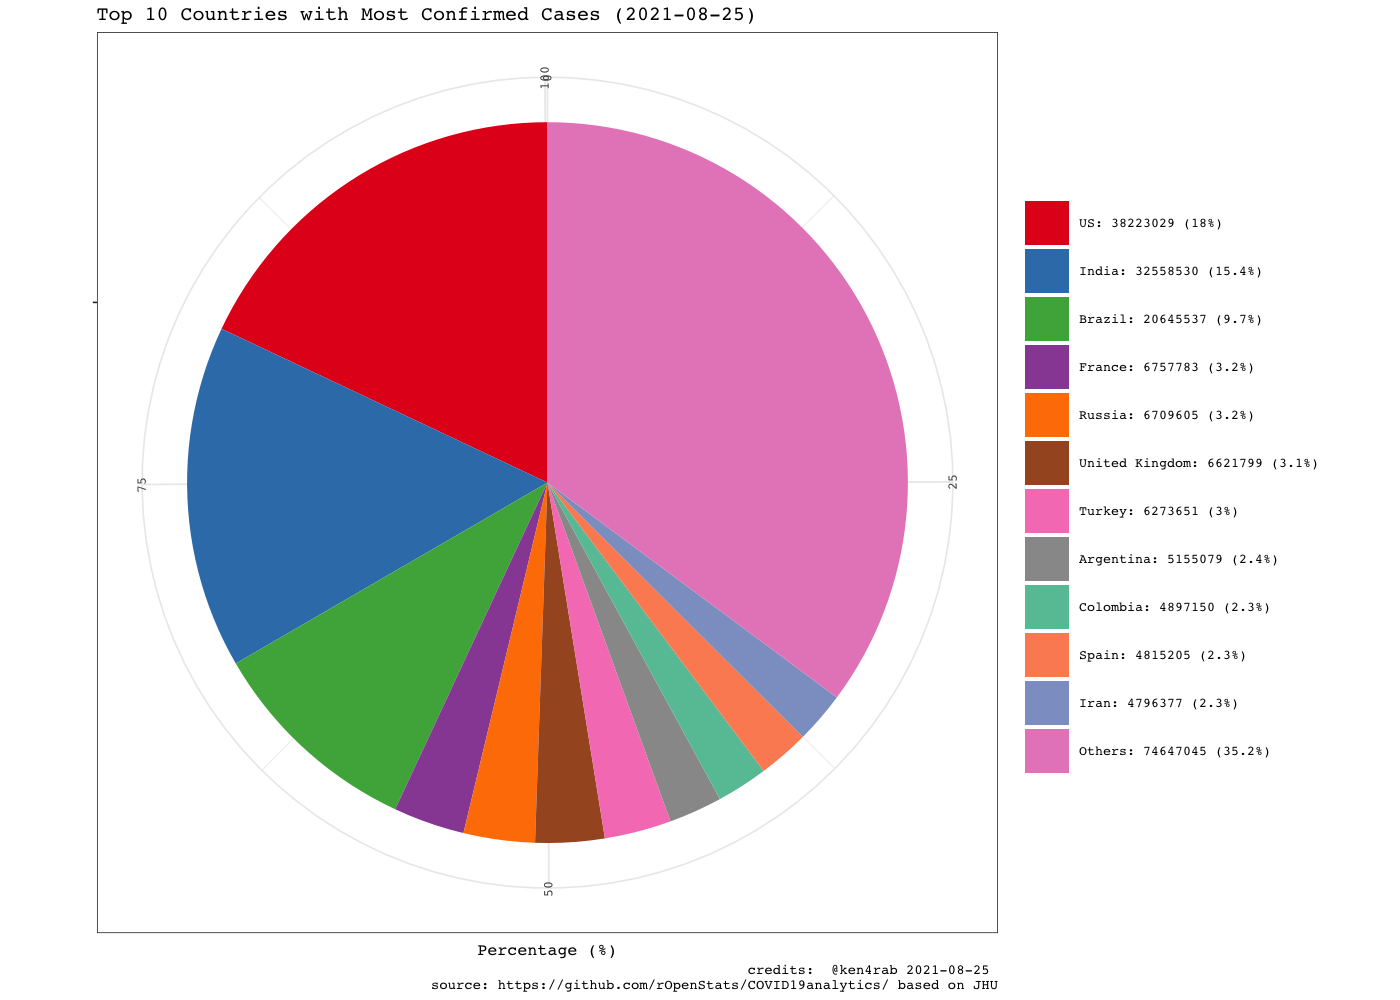
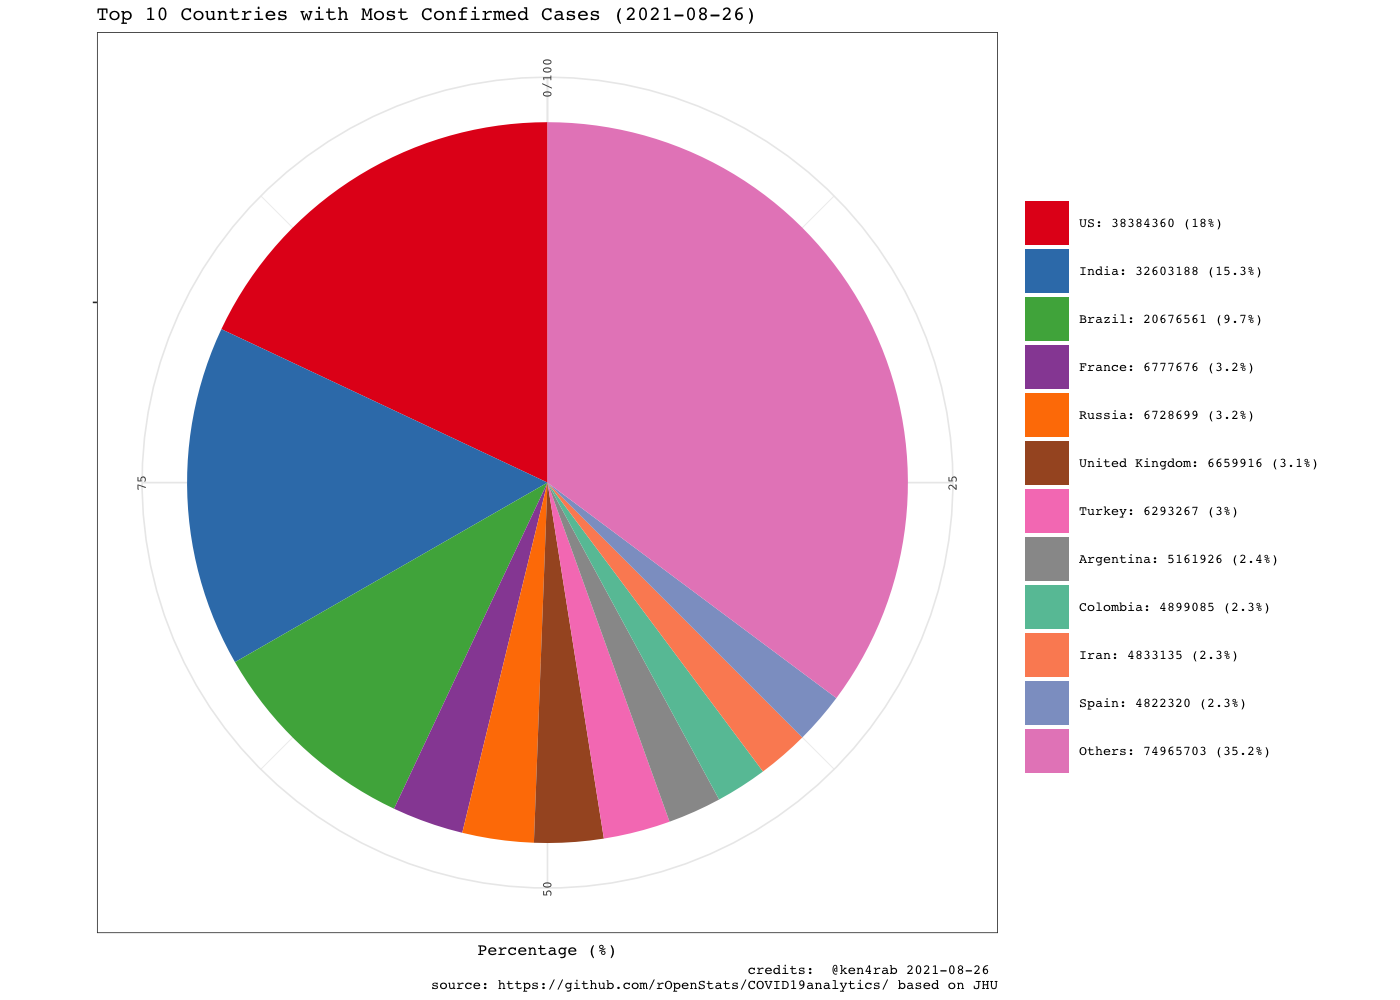
Updated up to 2021-08-26

diff --git a/README.md b/README.md
@@ -107,33 +107,33 @@ data.processor <- COVID19DataProcessor$new(provider = "JohnsHopkingsUniversity",
 
 #dummy <- data.processor$preprocess() is setupData + transform is the preprocess made by data provider
 dummy <- data.processor$setupData()
-#> INFO  [07:24:51.588]  {stage: processor-setup}
-#> INFO  [07:24:51.708] Checking required downloaded  {downloaded.max.date: 2021-08-24, daily.update.time: 21:00:00, current.datetime: 2021-08-26 07:24:51, download.flag: TRUE}
-#> INFO  [07:24:52.545] Checking required downloaded  {downloaded.max.date: 2021-08-24, daily.update.time: 21:00:00, current.datetime: 2021-08-26 07:24:52, download.flag: TRUE}
-#> INFO  [07:24:53.477] Checking required downloaded  {downloaded.max.date: 2021-08-24, daily.update.time: 21:00:00, current.datetime: 2021-08-26 07:24:53, download.flag: TRUE}
-#> INFO  [07:24:54.405]  {stage: data loaded}
-#> INFO  [07:24:54.407]  {stage: data-setup}
+#> INFO  [09:26:08.702]  {stage: processor-setup}
+#> INFO  [09:26:08.821] Checking required downloaded  {downloaded.max.date: 2021-08-25, daily.update.time: 21:00:00, current.datetime: 2021-08-27 09:26:08, download.flag: TRUE}
+#> INFO  [09:26:09.758] Checking required downloaded  {downloaded.max.date: 2021-08-25, daily.update.time: 21:00:00, current.datetime: 2021-08-27 09:26:09, download.flag: TRUE}
+#> INFO  [09:26:10.483] Checking required downloaded  {downloaded.max.date: 2021-08-25, daily.update.time: 21:00:00, current.datetime: 2021-08-27 09:26:10, download.flag: TRUE}
+#> INFO  [09:26:11.562]  {stage: data loaded}
+#> INFO  [09:26:11.564]  {stage: data-setup}
 dummy <- data.processor$transform()
-#> INFO  [07:24:54.410] Executing transform 
-#> INFO  [07:24:54.412] Executing consolidate 
-#> INFO  [07:25:14.040]  {stage: consolidated}
-#> INFO  [07:25:14.043] Executing standarize 
-#> INFO  [07:25:16.726] gathering DataModel 
-#> INFO  [07:25:16.728]  {stage: datamodel-setup}
+#> INFO  [09:26:11.567] Executing transform 
+#> INFO  [09:26:11.569] Executing consolidate 
+#> INFO  [09:26:30.589]  {stage: consolidated}
+#> INFO  [09:26:30.593] Executing standarize 
+#> INFO  [09:26:32.975] gathering DataModel 
+#> INFO  [09:26:32.977]  {stage: datamodel-setup}
 # Curate is the process made by missing values method
 dummy <- data.processor$curate()
-#> INFO  [07:25:16.736]  {stage: loading-aggregated-data-model}
+#> INFO  [09:26:32.984]  {stage: loading-aggregated-data-model}
 #> Warning in countrycode_convert(sourcevar = sourcevar, origin = origin, destination = dest, : Some values were not matched unambiguously: Micronesia
 #> Warning in countrycode_convert(sourcevar = sourcevar, origin = origin, destination = dest, : Some values were not matched unambiguously: MS Zaandam
 #> Warning in countrycode_convert(sourcevar = sourcevar, origin = origin, destination = dest, : Some values were not matched unambiguously: Summer Olympics 2020
-#> INFO  [07:25:24.511]  {stage: calculating-rates}
-#> INFO  [07:25:24.740]  {stage: making-data-comparison}
-#> INFO  [07:25:33.705]  {stage: applying-missing-values-method}
-#> INFO  [07:25:33.707]  {stage: Starting first imputation}
-#> INFO  [07:25:33.716]  {stage: calculating-rates}
-#> INFO  [07:25:34.059]  {stage: making-data-comparison-2}
-#> INFO  [07:25:44.758]  {stage: calculating-top-countries}
-#> INFO  [07:25:44.850]  {stage: curated}
+#> INFO  [09:26:40.195]  {stage: calculating-rates}
+#> INFO  [09:26:40.410]  {stage: making-data-comparison}
+#> INFO  [09:26:49.624]  {stage: applying-missing-values-method}
+#> INFO  [09:26:49.626]  {stage: Starting first imputation}
+#> INFO  [09:26:49.637]  {stage: calculating-rates}
+#> INFO  [09:26:49.920]  {stage: making-data-comparison-2}
+#> INFO  [09:26:58.246]  {stage: calculating-top-countries}
+#> INFO  [09:26:58.267]  {stage: curated}
 
 current.date <- max(data.processor$getData()$date)
 
@@ -160,16 +160,16 @@ kable((data.processor$getData() %>%
 
 | country        | date       | rate.inc.daily | confirmed.inc | confirmed | deaths | deaths.inc |
 |:---------------|:-----------|---------------:|--------------:|----------:|-------:|-----------:|
-| US             | 2021-08-25 |         0.0039 |        148143 |  38223029 | 632272 |       1456 |
-| India          | 2021-08-25 |         0.0014 |         46164 |  32558530 | 436365 |        607 |
-| Iran           | 2021-08-25 |         0.0084 |         39983 |   4796377 | 104022 |        665 |
-| United Kingdom | 2021-08-25 |         0.0054 |         35618 |   6621799 | 132323 |        149 |
-| Brazil         | 2021-08-25 |         0.0015 |         30671 |  20645537 | 576645 |        903 |
-| Japan          | 2021-08-25 |         0.0181 |         24317 |   1369091 |  15768 |         45 |
-| France         | 2021-08-25 |         0.0035 |         23706 |   6757783 | 114144 |        118 |
-| Malaysia       | 2021-08-25 |         0.0142 |         22642 |   1616244 |  14818 |        265 |
-| Mexico         | 2021-08-25 |         0.0065 |         21250 |   3271128 | 255452 |        986 |
-| Turkey         | 2021-08-25 |         0.0032 |         19970 |   6273651 |  55212 |        217 |
+| US             | 2021-08-26 |         0.0042 |        161331 |  38384360 | 633564 |       1292 |
+| India          | 2021-08-26 |         0.0014 |         44658 |  32603188 | 436861 |        496 |
+| United Kingdom | 2021-08-26 |         0.0058 |         38117 |   6659916 | 132465 |        142 |
+| Iran           | 2021-08-26 |         0.0077 |         36758 |   4833135 | 104716 |        694 |
+| Brazil         | 2021-08-26 |         0.0015 |         31024 |  20676561 | 577565 |        920 |
+| Japan          | 2021-08-26 |         0.0182 |         24950 |   1394041 |  15820 |         52 |
+| Malaysia       | 2021-08-26 |         0.0152 |         24599 |   1640843 |  15211 |        393 |
+| Mexico         | 2021-08-26 |         0.0063 |         20633 |   3291761 | 256287 |        835 |
+| France         | 2021-08-26 |         0.0029 |         19893 |   6777676 | 114269 |        125 |
+| Turkey         | 2021-08-26 |         0.0031 |         19616 |   6293267 |  55469 |        257 |
 
 ``` r
 # Top 10 daily deaths increment
@@ -181,16 +181,16 @@ kable((data.processor$getData() %>%
 
 | country      | date       | rate.inc.daily | confirmed.inc | confirmed | deaths | deaths.inc |
 |:-------------|:-----------|---------------:|--------------:|----------:|-------:|-----------:|
-| US           | 2021-08-25 |         0.0039 |        148143 |  38223029 | 632272 |       1456 |
-| Indonesia    | 2021-08-25 |         0.0047 |         18671 |   4026837 | 129293 |       1041 |
-| Mexico       | 2021-08-25 |         0.0065 |         21250 |   3271128 | 255452 |        986 |
-| Brazil       | 2021-08-25 |         0.0015 |         30671 |  20645537 | 576645 |        903 |
-| Russia       | 2021-08-25 |         0.0028 |         18972 |   6709605 | 175328 |        786 |
-| Iran         | 2021-08-25 |         0.0084 |         39983 |   4796377 | 104022 |        665 |
-| India        | 2021-08-25 |         0.0014 |         46164 |  32558530 | 436365 |        607 |
-| South Africa | 2021-08-25 |         0.0049 |         13251 |   2722202 |  80469 |        516 |
-| Vietnam      | 2021-08-25 |         0.0328 |         12096 |    381363 |   9349 |        335 |
-| Thailand     | 2021-08-25 |         0.0170 |         18417 |   1102368 |  10085 |        297 |
+| US           | 2021-08-26 |         0.0042 |        161331 |  38384360 | 633564 |       1292 |
+| Brazil       | 2021-08-26 |         0.0015 |         31024 |  20676561 | 577565 |        920 |
+| Indonesia    | 2021-08-26 |         0.0042 |         16899 |   4043736 | 130182 |        889 |
+| Mexico       | 2021-08-26 |         0.0063 |         20633 |   3291761 | 256287 |        835 |
+| Russia       | 2021-08-26 |         0.0028 |         19094 |   6728699 | 176127 |        799 |
+| Iran         | 2021-08-26 |         0.0077 |         36758 |   4833135 | 104716 |        694 |
+| India        | 2021-08-26 |         0.0014 |         44658 |  32603188 | 436861 |        496 |
+| Malaysia     | 2021-08-26 |         0.0152 |         24599 |   1640843 |  15211 |        393 |
+| South Africa | 2021-08-26 |         0.0047 |         12771 |   2734973 |  80826 |        357 |
+| Vietnam      | 2021-08-26 |         0.0304 |         11575 |    392938 |   9667 |        318 |
 
 ``` r
 rg$ggplotTopCountriesStackedBarDailyInc(included.countries = latam.countries, countries.text = "Latam countries")
@@ -323,8 +323,6 @@ rg$ggplotCrossSection(included.countries = international.countries,
 ``` r
 rg$ggplotCountriesLines(field = "confirmed.inc", log.scale = TRUE)
 #> Warning: Removed 66 row(s) containing missing values (geom_path).
-#> Warning: ggrepel: 1 unlabeled data points (too many overlaps). Consider
-#> increasing max.overlaps
 ```
 
 <img src="man/figures/README-dataviz-8-top-countries-inc-daily-1.png" width="100%" />
